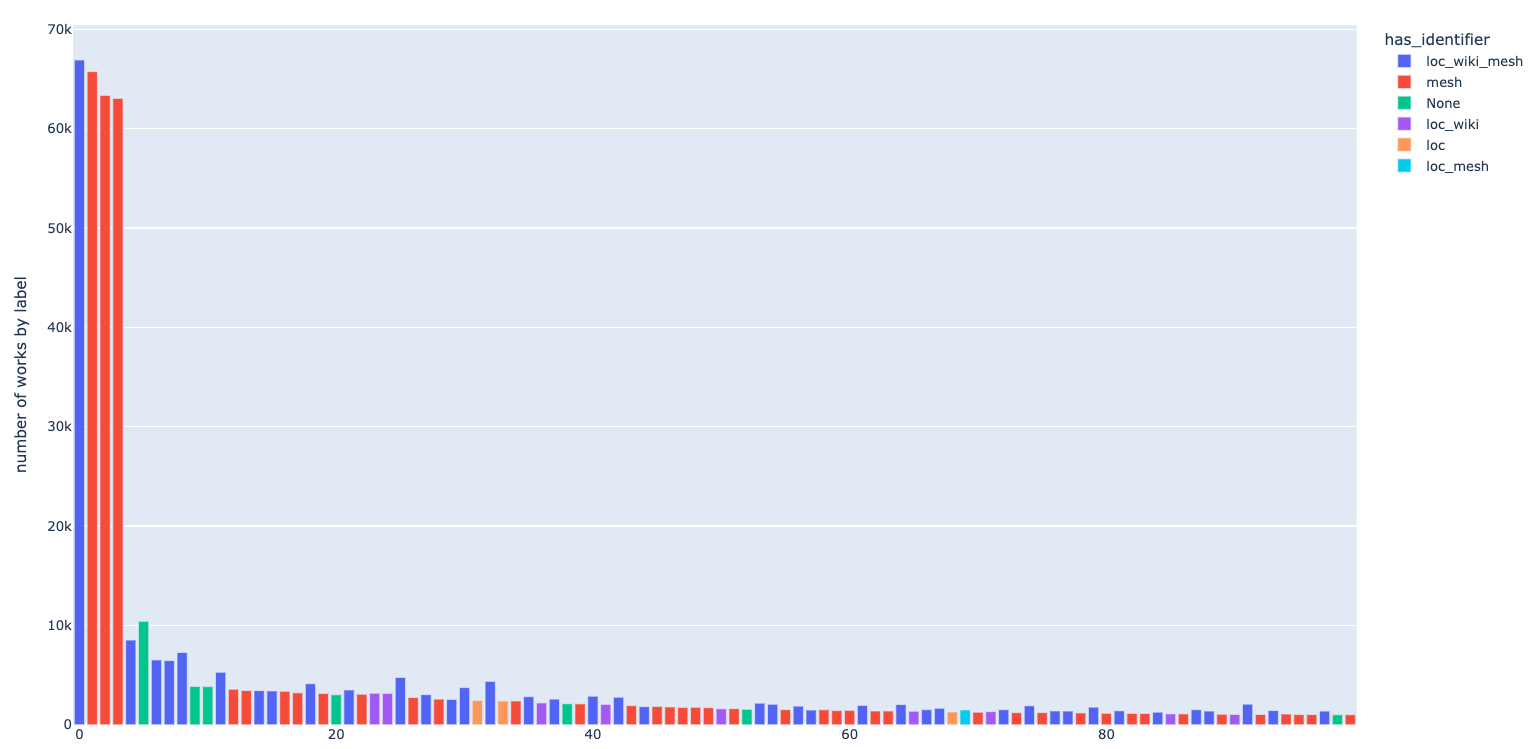
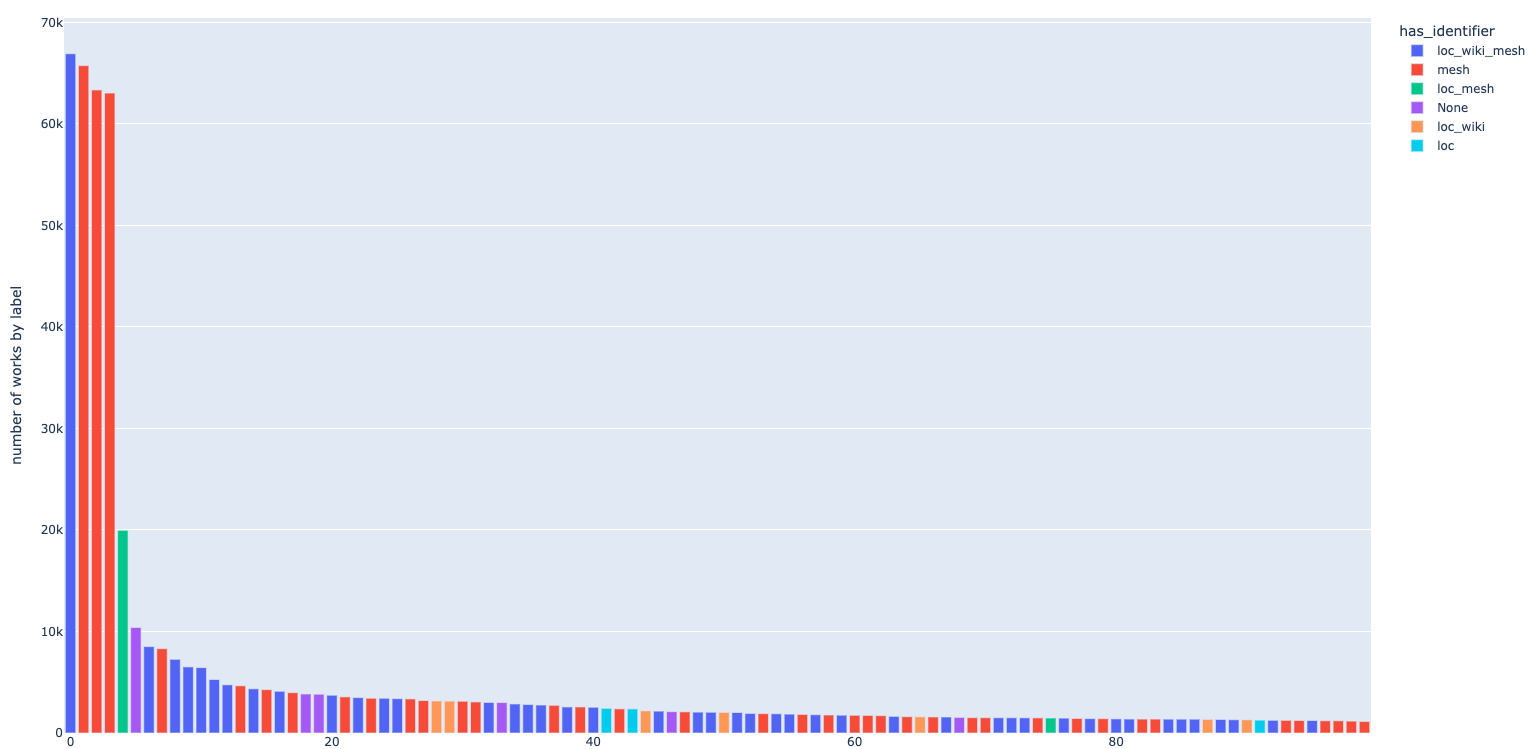
Update top100 vis

Changed region(s): [[0.0, 0.0, 1.0, 1.0]]

diff --git a/rfcs/064-graph-data-model/README.md b/rfcs/064-graph-data-model/README.md
@@ -124,6 +124,6 @@ Number of concept IDs after linkage:
 
 **Top 100 most common concepts**
 
-If you look at the top 100 most common concept labels, 93 of these can actually be matched to a vocabulary entry in at least one source via the above process (click on image for interactive version):
+If you look at the top 100 most common concept labels, 94 of these can actually be matched to a vocabulary entry in at least one source via the above process (click on image for interactive version):
 
 [![top 100 most common](figures/top_100.png)](https://ds.wellcome.data/collection/concepts/linkage/top_100.html)
